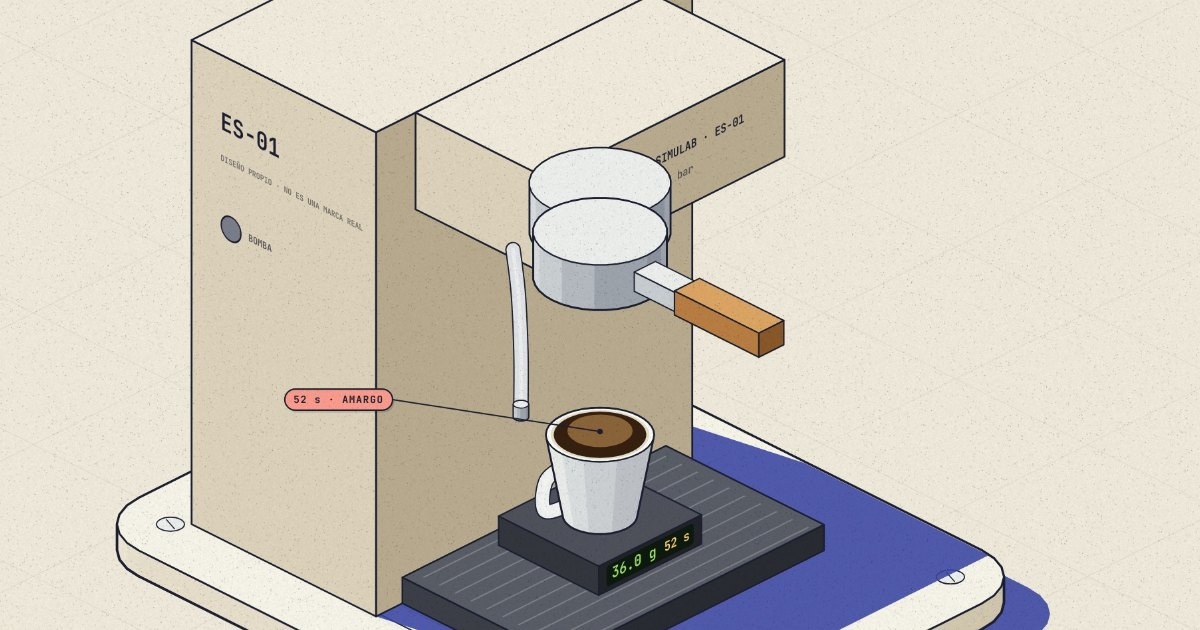
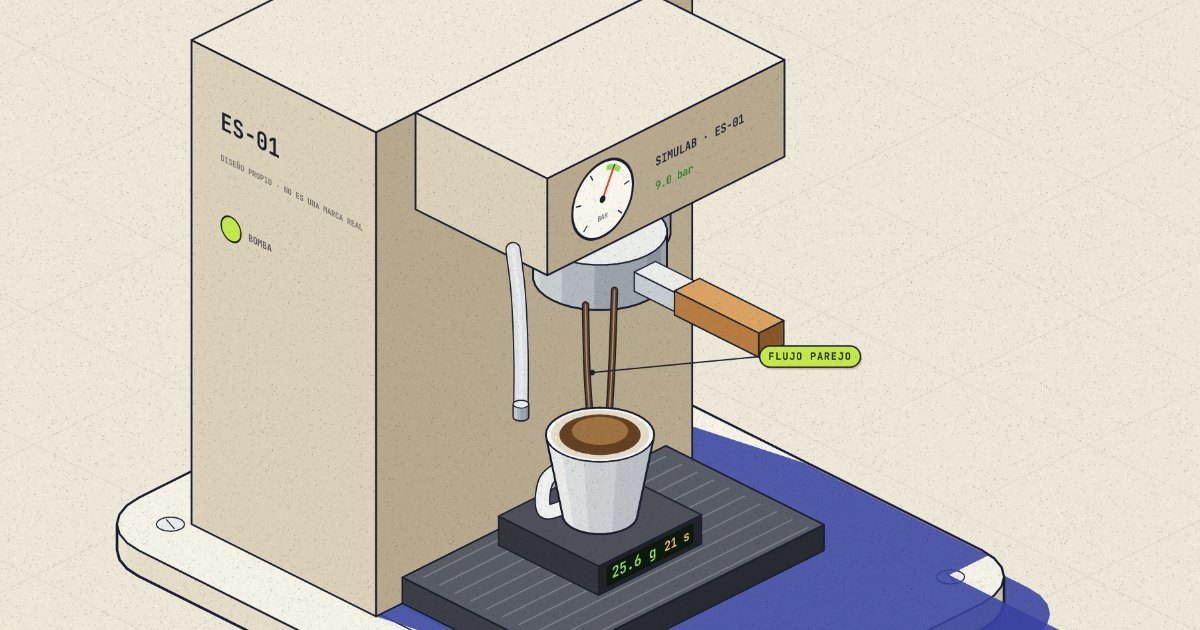
Lab E1 Espresso: manómetro visible, goteo, práctica y paneles corregidos
Claude-Session: https://claude.ai/code/session_016Uqwh8oR7sB5AbhHKsavGi

diff --git a/demos/labE1-espresso/demo.js b/demos/labE1-espresso/demo.js
@@ -12,6 +12,7 @@ const EC_LEAD = 1.0, EC_HOLD = 2.8, EC_LIVE_RATE = 2;
 function ecInsts() {
   return [
     place('maquinaEspresso', 'maq', { code: "maquina('ES-01', 9 /* bar */);" }),
+    place('cabezalEspresso', 'cab', { code: 'manometro(15 /* bar */);' }),
     place('bascula', 'bas', { code: 'bascula(0.1 /* g */);' }),
     place('tazaEspresso', 'taza', { code: 'taza();' }),
     place('portafiltro', 'pf', { code: 'portafiltro(18 /* g */);' }),
@@ -33,7 +34,7 @@ function ecChapter(TL, t) { for (let k = TL.CH.length - 1; k >= 0; k--) if (t >=
 // live: every press of P is a shot with the grind set at that moment
 function ecLiveShots(params) {
   const out = []; let prev = 0;
-  for (const e of LIVE.ev) if (e[1] === 'shot' && e[2] === 1 && e[0] >= prev) { out.push({ tp: e[0], g: liveVal(LIVE.ev, 'grind', e[0], params.grind ?? 5) }); prev = e[0] + 0.01; }
+  for (const e of LIVE.ev) if (e[1] === 'shot' && e[2] === 1 && e[0] >= prev) { const g = liveVal(LIVE.ev, 'grind', e[0], params.grind ?? 5); out.push({ tp: e[0], g }); prev = e[0] + esT(g) / EC_LIVE_RATE + 0.3; }
   return out;
 }
 
@@ -69,7 +70,7 @@ const DEMO = {
   chips: ['MÁQUINA 9 BAR · 18 g → 36 g · BÁSCULA 0.1 g', 'LAB E1 · CAFÉ'],
   caption: 'La molienda decide cuánto tarda el agua.',
   intro: { seconds: 5, lines: ['¿Por qué tu espresso', 'sale agrio o amargo?'], pill: 'LAB E1 · ESPRESSO', src: (TL) => TL.T.caption, rate: 0.8 },
-  major: ['maq', 'pf', 'bas', 'taza'],
+  major: ['maq', 'cab', 'pf'],
   params: { grind: 5 },
   knob: { key: 'grind', label: 'MOLIENDA', min: 1, max: 10, step: 1, fmt: (v) => `${v} · ${esD(v)} µm` },
   live: { label: '▶ Saca tu shot', controls: [{ key: 'shot', label: 'SACAR SHOT', keys: ['KeyP'], kbd: 'P' }] },
@@ -94,7 +95,7 @@ const DEMO = {
     const cap = !TL.live && st.t >= TL.T.caption - 0.3;
     if (ch && !cap) {
       const endV = EC_LEAD + ch.vid, dur = ch.t1 - ch.t0;
-      callout(c, P([8, -4.2, 28.2]), 150, -70, `PRESIÓN · ${ES.bar} BAR`, fade(EC_LEAD + 0.4, EC_LEAD + 2.6));
+      if (sh && sh.pump) callout(c, P([8, 4.8, 27]), 190, -90, sh.pre ? `PREINFUSIÓN · ${ES.preBar} BAR` : `EXTRACCIÓN · ${ES.bar} BAR`, fade(EC_LEAD + 0.3, EC_LEAD + ES.preT / ch.rate + 2.2), sh.pre ? '#ffffff' : '#c8f04a');
       const mid = [3, 0.6, 12.5];
       if (ch.id === 'grueso') callout(c, P(mid), 210, -20, 'SALE RÁPIDO Y CLARO', fade(EC_LEAD + 2.0, endV), '#ffcf6b');
       if (ch.id === 'fino') callout(c, P(mid), 210, -20, 'GOTEA LENTO Y OSCURO', fade(EC_LEAD + 2.6, endV), '#ffcf6b');
@@ -112,7 +113,11 @@ const DEMO = {
         pill(c, CARD.x + 30, 150 + i * 46, `${i + 1} · MOLIENDA ${cc.g} · ${Math.round(cc.Tshot)} s · ${r[1]}`, { bg: r[3] === 'lime' ? '#c8f04a' : r[3] === 'amber' ? '#ffcf6b' : '#ff9e93', size: 14, padY: 9, alpha: a * seg(st.t, TL.T.caption + 0.5 + i * 0.15, TL.T.caption + 0.8 + i * 0.15) });
       });
     }
-    if (TL.live) tipCard(c, CARD.x + 30, 146, ['Gira la MOLIENDA y presiona P.', 'Busca 36 g en 25-30 s.'], 1, 'TU TURNO');
+    if (TL.live) {
+      const run = sh && !sh.done;
+      tipCard(c, CARD.x + 30, 146, run ? [`Molienda ${sh.g}: ${sh.pre ? 'preinfusión…' : 'extrayendo…'}`, 'Espera a que termine el shot.'] : ['Gira la MOLIENDA y presiona P.', 'Busca 36 g en 25-30 s.'], 1, 'TU TURNO');
+      if (sh && sh.done) callout(c, P([3, 0, 8.6]), -260, -40, sh.choked ? `AHOGADO · ${sh.grams.toFixed(0)} g EN 60 s` : `${Math.round(sh.T)} s · ${sh.res[1]}`, 1, sh.res[3] === 'lime' ? '#c8f04a' : sh.res[3] === 'amber' ? '#ffcf6b' : '#ff9e93');
+    }
   },
   drawBays(c, TL, st) {
     const sh = st.shot, tm = sh ? sh.shotT : 0;
@@ -131,7 +136,7 @@ const DEMO = {
     c.restore();
     // BAY 02 · grams in the cup
     const g = st.grams;
-    b = bayFrame(c, 1, 'BAY 02 · EN LA TAZA', g >= ES.target - 0.05 ? 'LISTO' : sh && sh.flowing ? 'CAYENDO' : '--', g >= ES.target - 0.05 ? BAY_BG.lime : sh && sh.flowing ? BAY_BG.amber : BAY_BG.grey);
+    b = bayFrame(c, 1, 'BAY 02 · EN LA TAZA', sh && sh.choked ? 'AHOGADO' : g >= ES.target - 0.05 ? 'LISTO' : sh && sh.flowing ? 'CAYENDO' : sh && sh.pre ? 'PREINFUSIÓN' : '--', sh && sh.choked ? BAY_BG.coral : g >= ES.target - 0.05 ? BAY_BG.lime : sh && (sh.flowing || sh.pre) ? BAY_BG.amber : BAY_BG.grey);
     bigValue(c, b, g.toFixed(1), `/ ${ES.target} g`, `${ES.dose} g de café → ${ES.target} g (1:2)`);
     c.save();
     const gx = b.x + 14, gw = b.w - 28, gy = b.y + 132;
@@ -140,14 +145,14 @@ const DEMO = {
     c.font = `400 11px ${FONT_MONO}`; c.fillStyle = '#6b6f7a'; c.fillText(sh ? `presión ${sh.bar.toFixed(1)} bar · bomba ${sh.pump ? 'ON' : 'OFF'}` : 'presión 0 bar', gx, gy + 44);
     c.restore();
     // BAY 03 · grind and flow
-    const gr = sh ? sh.g : TL.live ? st.grindNow : 5, d = esD(gr), q = esQ(gr);
+    const gr = TL.live ? (sh && !sh.done ? sh.g : st.grindNow) : sh ? sh.g : 5, d = esD(gr), q = esQ(gr);
     b = bayFrame(c, 2, 'BAY 03 · MOLIENDA', gr <= 3 ? 'FINA' : gr >= 7 ? 'GRUESA' : 'MEDIA', gr <= 3 ? BAY_BG.coral : gr >= 7 ? BAY_BG.amber : BAY_BG.lime);
     bigValue(c, b, q.toFixed(2), 'g/s', `ajuste ${gr} · partícula ${d} µm`);
     chartBox(c, b);
     c.save(); c.fillStyle = cafeColor(q);
     const rpx = 1.5 + (d / 600) * 6.5;
     for (let i = 0; i < 40; i++) { const x = b.cx + 10 + ((i * 37) % (b.cw - 20)), y = b.cy + 10 + ((i * 53) % (b.ch - 20)); c.beginPath(); c.arc(x, y, rpx * (0.8 + ((i * 7) % 5) / 10), 0, Math.PI * 2); c.fill(); }
-    c.font = `700 9.5px ${FONT_MONO}`; c.fillStyle = '#545867'; c.fillText('flujo ∝ partícula²', b.cx + 4, b.cy + b.ch + 16);
+    c.restore(); c.save(); pill(c, b.cx + b.cw - 6, b.cy + 6, 'flujo ∝ partícula²', { align: 'right', bg: '#fffdf8', size: 9, padY: 3, padX: 6, ls: 0.5, shadow: false, lw: 1 });
     c.restore();
     // BAY 04 · results so far
     const last = st.tally.length ? st.tally[st.tally.length - 1] : null, lr = last && last.done ? esVeredicto(last.T) : null;

diff --git a/assets/cafe.js b/assets/cafe.js
@@ -19,7 +19,6 @@ defineAsset('maquinaEspresso', {
   pins: { grupo: { p: [3, 0, 21] } },
   floorShadow: (xf) => [boxCorners(xf, [-16, -12, 0], [-2, 12, 30]), boxCorners(xf, [-2, -10, 0], [10, 10, 1.6])],
   draw(G, xf, st) {
-    const bar = st.bar || 0;
     // body
     drawBox(G, xf, [-16, -12, 0], [-2, 12, 30], MC.body, {
       lw: 2,
@@ -34,6 +33,16 @@ defineAsset('maquinaEspresso', {
     drawBox(G, xf, [-2, -10, 0], [10, 10, 1.6], MC.tray, {
       lw: 1.8, top: (c) => { c.strokeStyle = 'rgba(255,255,255,0.22)'; c.lineWidth = 0.12; for (let x = 0.8; x < 12; x += 1.2) { c.beginPath(); c.moveTo(x, 0.8); c.lineTo(x, 19.2); c.stroke(); } },
     });
+    // group head
+    drawCyl(G, xf, ES_GEO.group, 'z', 3.8, 3, M.steel, { seg: 36, lw: 1.6 });
+  },
+});
+
+defineAsset('cabezalEspresso', {
+  name: 'cabezal y manómetro', label: 'MANÓMETRO', group: 'floor', layer: 4, O: [0, 0, 0], anchor: [8, 4.8, 27], ring: [6, 9, 24], lab: [5, 3, 4.5], dropH: 5,
+  floorShadow: (xf) => [boxCorners(xf, [-2, -9, 24], [8, 9, 30])],
+  draw(G, xf, st) {
+    const bar = st.bar || 0;
     // head housing with the pressure gauge on its front face
     drawBox(G, xf, [-2, -9, 24], [8, 9, 30], MC.body, {
       lw: 2,
@@ -52,8 +61,6 @@ defineAsset('maquinaEspresso', {
         ptxt(c, `${bar.toFixed(1)} bar`, 8.2, 3.9, 0.7, bar >= 8 ? '#2f8a2f' : 'rgba(29,32,51,0.6)', 700, 'left');
       },
     });
-    // group head
-    drawCyl(G, xf, ES_GEO.group, 'z', 3.8, 3, M.steel, { seg: 36, lw: 1.6 });
     // steam wand on the right side
     drawWire(G, xf, [[5, 8.6, 24.2], [6.6, 9.8, 22.6], [7.4, 10.4, 19.5], [7.6, 10.6, 16.5]], '#e3e7ee', { w: 0.7, n: 14 });
     drawCyl(G, xf, [7.6, 10.6, 16.1], 'z', 0.42, 0.8, M.steel, { seg: 14, lw: 1.2 });
@@ -61,7 +68,7 @@ defineAsset('maquinaEspresso', {
 });
 
 defineAsset('portafiltro', {
-  name: 'portafiltro', label: 'PORTAFILTRO · 18 g', group: 'floor', layer: 2, O: [0, 0, 0], anchor: [3, 0, 21], ring: [4.5, 4.5, 18.2], lab: [2, -2, 2.5], dropH: 5,
+  name: 'portafiltro', label: 'PORTAFILTRO · 18 g', group: 'floor', layer: 2, O: [0, 0, 0], anchor: [3, 0, 21], ring: [4.5, 4.5, 18.2], lab: [9, -9, -2], dropH: 5,
   draw(G, xf, st) {
     for (const s of [-1, 1]) drawCyl(G, xf, [3, s * ES_GEO.spoutY, 17.55], 'z', 0.45, 1.3, M.steel, { seg: 14, lw: 1.2 });
     drawCyl(G, xf, ES_GEO.basket, 'z', 3.6, 2.8, M.steel, { seg: 36, lw: 1.7 });
@@ -71,7 +78,7 @@ defineAsset('portafiltro', {
 });
 
 defineAsset('bascula', {
-  name: 'báscula', label: 'BÁSCULA · 0.1 g', group: 'floor', layer: 1, O: [0, 0, 0], anchor: [3, 0, 3.4], ring: [4.4, 4.4, 1.62], lab: [2.5, 2.5, 1.5], dropH: 6,
+  name: 'báscula', label: 'BÁSCULA · 0.1 g', group: 'floor', layer: 1, O: [0, 0, 0], anchor: [3, 0, 3.4], ring: [4.4, 4.4, 1.62], lab: [6, -3, -1.5], dropH: 6,
   draw(G, xf, st) {
     const g = st.grams || 0, tm = st.shotT || 0;
     drawBox(G, xf, [-0.8, -3.9, 1.6], [6.8, 3.9, 3.4], M.blk, {
@@ -86,7 +93,7 @@ defineAsset('bascula', {
 });
 
 defineAsset('tazaEspresso', {
-  name: 'taza de espresso', label: 'TAZA', group: 'floor', layer: 3, O: [0, 0, 0], anchor: [3, 0, 8.4], ring: [3.4, 3.4, 3.42], lab: [2.6, 2.6, 1.6], dropH: 6,
+  name: 'taza de espresso', label: 'TAZA', group: 'floor', layer: 3, O: [0, 0, 0], anchor: [3, 0, 8.4], ring: [3.4, 3.4, 3.42], lab: [-1, 7, 2.5], dropH: 6,
   draw(G, xf, st) {
     const g = ES_GEO, fill = clamp((st.grams || 0) / 40), q = st.flowCol ?? 1.6;
     drawWire(G, xf, [[3, 2.6, 7.6], [3, 4.1, 7.2], [3, 4.2, 5.4], [3, 2.3, 5.0]], '#f4f6f9', { w: 0.7, n: 14 });
@@ -109,6 +116,11 @@ function drawChorros(G, base, q, on, t) {
   const g = ES_GEO, col = cafeColor(q), w = clamp(0.12 + q * 0.09, 0.14, 0.42) * on;
   for (const s of [-1, 1]) {
     const top = [3, s * g.spoutY, g.spoutZ], bot = [3, s * g.spoutY * 0.55, g.cupBase + g.cupH - 0.3];
+    if (q < 1.0) {   // choked puck: it drips instead of pouring
+      const c = G.ctx; c.save(); c.fillStyle = col; c.globalAlpha = on;
+      for (let k = 0; k < 3; k++) { const f = ((t * (0.9 + q) + k / 3 + (s > 0 ? 0.17 : 0)) % 1 + 1) % 1, P = G.cam.p(base.p(lerp3(top, bot, f * f))); c.beginPath(); c.ellipse(P[0], P[1], 0.16 * G.cam.z, 0.24 * G.cam.z, 0, 0, Math.PI * 2); c.fill(); }
+      c.restore(); continue;
+    }
     const wob = Math.sin(t * 9 + s) * 0.06;
     drawWire(G, base, [top, [3 + wob, s * g.spoutY * 0.85, (top[2] + bot[2]) / 2], bot], col, { w, n: 10 });
   }

diff --git a/demos/labE1-espresso/model.js b/demos/labE1-espresso/model.js
@@ -30,6 +30,6 @@ function esAt(g, tm) {
   let bar = 0;
   if (tm >= 0 && tm < T) bar = tm < ES.preT ? ES.preBar * smooth(tm / 1.2) : lerp(ES.preBar, ES.bar, smooth((tm - ES.preT) / 0.8));
   else if (tm >= T) bar = ES.bar * (1 - smooth((tm - T) / 0.6));
-  const flowing = on && tm > ES.preT + 0.3 ? 1 : 0;
-  return { g, Q, T, grams, bar, pump: on ? 1 : 0, flowing, done: tm >= T, shotT: clamp(tm, 0, T), res: esVeredicto(T) };
+  const flowing = on && tm > ES.preT ? 1 : 0;
+  return { g, Q, T, grams, choked: tm >= T && grams < ES.target - 0.05, pre: on && tm < ES.preT, bar, pump: on ? 1 : 0, flowing, done: tm >= T, shotT: clamp(tm, 0, T), res: esVeredicto(T) };
 }

diff --git a/README.md b/README.md
@@ -66,7 +66,7 @@ Todo el detalle está en [SKILL.md](SKILL.md). / The full detail is in [SKILL.md
 | `SKILL.md` | Lo que lee Claude: el método, el contrato de cada lab, la revisión. / What Claude reads: the method, the lab contract, the review. |
 | `PROMPTS.md` | Prompts en español e inglés y una tabla de ideas por nicho. / Prompts in Spanish and English and a table of ideas by niche. |
 | `kit/` | Motor isométrico, interfaz, reproductor e idiomas. / Isometric engine, UI, player and languages. |
-| `assets/` | 43 objetos reutilizables (placas, herramientas, café...). Lista en `CATALOGO.md`. / 43 reusable objects (boards, tools, coffee...). List in `CATALOGO.md`. |
+| `assets/` | 44 objetos reutilizables (placas, herramientas, café...). Lista en `CATALOGO.md`. / 44 reusable objects (boards, tools, coffee...). List in `CATALOGO.md`. |
 | `demos/` | 5 labs completos y el catálogo. / 5 complete labs and the catalogue. |
 | `tools/` | Build, hojas de contacto, video, audio, portada. / Build, contact sheets, video, audio, cover. |
 

diff --git a/CATALOGO.md b/CATALOGO.md
@@ -155,7 +155,8 @@ resolveCables(insts)   // calcula la ruta de cada cable (arco + conectores dupon
 
 | type | nombre | grupo | pines | opts / st que lee |
 |---|---|---|---|---|
-| `maquinaEspresso` | máquina de espresso | floor | grupo | st.bar, st.pump |
+| `maquinaEspresso` | máquina de espresso | floor | grupo | st.pump |
+| `cabezalEspresso` | cabezal y manómetro | floor | (sin pines) | st.bar |
 | `portafiltro` | portafiltro | floor | (sin pines) |  |
 | `bascula` | báscula | floor | (sin pines) | st.grams, st.shotT |
 | `tazaEspresso` | taza de espresso | floor | (sin pines) | st.grams, st.flowCol |
